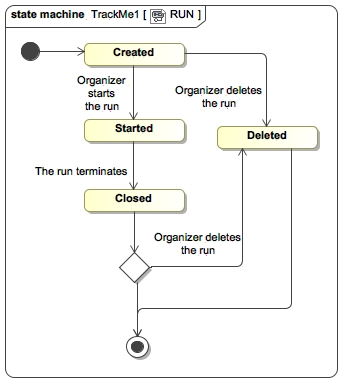
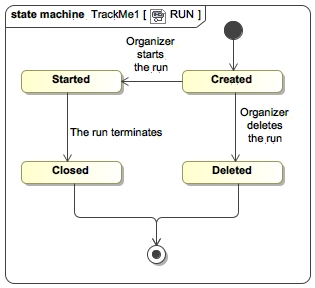
Updates from ShareLaTeX

Changed region(s): [[0.0, 0.0, 1.0, 1.0], [0.3429, 0.6875, 0.3714, 0.7188]]

diff --git a/DD/main.tex b/DD/main.tex
@@ -4,7 +4,7 @@
 \usepackage{graphicx}
 \usepackage{acronym}
 \usepackage{indentfirst}
-\usepackage[htt]{hyphenat}
+\usepackage[none]{hyphenat}
 \usepackage{fancyhdr}
 \usepackage{enumitem}
 \usepackage{listings}
@@ -38,23 +38,23 @@
  
     \subsection{Scope}
     \textit{TrackMe} system has been project in such a way that it is a service available on web and mobile application. The subjects the should use this service can belong to two different categories:
-    \newline
+    
     \begin{itemize}
     
     \item{Individuals}
     
     \item{Third-Party}
-    \newline
+    
     \end{itemize}
     
    
-   \textit{TrackMe} give allows Third-Party to access Individual's health data exploiting the functionalities of \textit{Data4help} section of \textit{TrackMe}. The Third-Parties can make Individual, or group request. the Individuals  can accept or not Third-parties' requests. The application may also allow individual users to connect external  devices such as smart-watches or similar, to perform a more detailed data acquisition and monitoring. 
-   \newline
+   \textit{TrackMe} give allows Third-Party to access Individual's health data exploiting the functionality of \textit{Data4help} section of \textit{TrackMe}. The Third-Parties can make Individual, or group request. the Individuals  can accept or not Third-parties' requests. The application may also allow individual users to connect external  devices such as smart-watches or similar, to perform a more detailed data acquisition and monitoring. 
+   
    
    
    In addition, the third-party may also provide a personalized and non intrusive SOS service for elderly people who requested it.
    The system permits to enable the \textit{Automated-SOS} service that guarantees that the GPS position of an user, who has enabled \textit{Automated SOS}, can be send to the nearest ambulance available, when user's health parameters overcome some critical thresholds. This procedure takes place thanks to an ambulance dispatcher, which is connected to the Third-Party (which has enabled automated-SOS too), that has been selected by that individual to provide this service
-   \newline
+   
    
    
    Moreover,  through  the \textit{Track4Run} service, \textit{TrackMe} allows \textit{Organizers} (that are individuals)  to  \textit{create}  a  new  run:  a  competition  in  which other individuals can either participate as \textit{athletes} or watch as \textit{spectators}.  Additionally, this feature guarantees other services for keeping track of athletes progresses during the run, providing an interactive map of the run, with runners position on it.
@@ -239,13 +239,7 @@ it allows to communicate with the application server and the only logic used is 
 \section{User Interface Design}
 
 %improve the image layout
-In this section will be showed the application mock ups.
-\newline
-The guest who access to the main page can sign-up to the application providing his credentials. Once clicked on the \textit{Sign On} button the guest can decide whether registers as an Individual or as a Third-Party, swiping left and right to choose the wright option.
-\newline
-Once registered, on initial page, an user can sign-in in the application inserting Username and Password in the relative boxes and clicking on the \textit{Sign} In button. 
-\newline  
-\newline  
+The guest who access to the main page can sign-up to the application providing his credentials. Once clicked on the \textit{Sign On} button the guest can decide whether registers as an Individual or as a Third-Party, swiping left and right to choose the wright option. Once registered, on initial page, an user can sign-in in the application inserting Username and Password in the relative boxes and clicking on the \textit{Sign} In button. 
 
 %mock-up figures
 \begin{figure}[!htpb]
@@ -253,13 +247,11 @@ Once registered, on initial page, an user can sign-in in the application inserti
     	\includegraphics[height=50mm]{images/mockups/Login_Registration.png}
     	\includegraphics[height=50mm]{images/mockups/RegistrationForm.png}
     	\includegraphics[height=50mm]{images/mockups/ThirdPartyRegistration.png}
-    	\newline
-    	\newline
+    	
+    	
         \end{figure}
 
-When, inside the application, the user is redirected to the home page, where he can see the last activities, and where he can sign out from \textit{TrackMe}.
-\newline
-Swiping left he can access to the profile page which is different whether he is signed as an Individual or Third-Party. Here they can access to the services provided by \textit{Data4help} and the can enable \textit{Automated-SOS} too. The Individual can swipe again to access the \textit{Track4Run} section.
+When, inside the application, the user is redirected to the home page, where he can see the last activities, and where he can sign out from \textit{TrackMe}. Swiping left he can access to the profile page which is different whether he is signed as an Individual or Third-Party. Here they can access to the services provided by \textit{Data4help} and the can enable \textit{Automated-SOS} too. The Individual can swipe again to access the \textit{Track4Run} section.
 
 \begin{figure}[!htpb]
     	\centering
@@ -268,21 +260,19 @@ Swiping left he can access to the profile page which is different whether he is 
     	\includegraphics[height=50mm]{images/mockups/ThirdPartyProfile.png}
         \end{figure}
 
-\newpage
-
-The Third-party, in the Request page, can swipe between individual and group, and can enable the option to subscribe to new data. 
-\newline
-While, The Individual, can see and resolve incoming request, the accepted and the rejected ones.
-\newline
-The Third- Party, form the initial page, can also reach the view data section. Here he can see and plot the data of the accepted requests. Furthermore, swiping left and right, it can move between individual and group data.
-
-\newpage
+The Third-party, in the Request page, can swipe between individual and group, and can enable the option to subscribe to new data. While, The Individual, can see and resolve incoming request, the accepted and the rejected ones. The Third- Party, form the initial page, can also reach the view data section. Here he can see and plot the data of the accepted requests. Furthermore, swiping left and right, it can move between individual and group data.
+\begin{figure}[!htpb]		
+		
+     	\centering		
+     	\includegraphics[height=50mm]{images/mockups/Requests.png}		
+     	\includegraphics[height=50mm]{images/mockups/GroupRequest.png}		
+     	\includegraphics[height=50mm]{images/mockups/ManageRequests.png}		
+     	\includegraphics[height=50mm]{images/mockups/ViewData.png}		
+     	\includegraphics[height=50mm]{images/mockups/ViewData2.png}		
+         \end{figure}
         
-Once in the \textit{Truck4Run}, the individual can create, watch, enroll, unroll, start or delete a run. 
-\newline
-In the create run page, he can set all the characteristic of the run. Furthermore, he can access to an interactive map to set up the path of the rush.
-\newline
-In the section tho watch a run, a map is showed with all the information about that rush.
+        \newpage
+Once in the \textit{Truck4Run}, the individual can create, watch, enroll, unroll, start or delete a run.  In the create run page, he can set all the characteristic of the run. Furthermore, he can access to an interactive map to set up the path of the rush. In the section tho watch a run, a map is showed with all the information about that rush.
 
         \begin{figure}[!htpb]
     	\centering
@@ -291,7 +281,8 @@ In the section tho watch a run, a map is showed with all the information about t
     	\includegraphics[height=50mm]{images/mockups/ShowMap.png}
     	\includegraphics[height=50mm]{images/mockups/DefineTrack.png}
         \end{figure}
-
+        
+\newpage
 \section{Requirements Traceability}
 
 

diff --git a/RASD/main.tex b/RASD/main.tex
@@ -242,11 +242,9 @@
         \hfill
         
         \centering
-        \includegraphics[width=80mm, keepaspectratio]{images/UML/state_sos.jpg}
-        \hfill
+        \includegraphics[width=70mm, keepaspectratio]{images/UML/state_sos.jpg}
         
-        \centering
-        \includegraphics[width=60mm, keepaspectratio]{images/UML/state_run.jpg}
+        \includegraphics[width=55mm, keepaspectratio]{images/UML/state_run.jpg}
         \caption{State Charts}
     \end{figure}
     
@@ -663,7 +661,7 @@
         \actor{Guest.}
         \pre{The individual has a valid SSN/FC and he has selected the \textit{Individual} option in the Registration page.}
         
-        \bflow{The system asks to provide username, password, SSN/FC (based on region) and user personal information such as name, surname, age, gender, e-mail, nationality and optional notes about his health condition.}
+        \bflow{The system asks to provide username, password, SSN or FC based on region and user personal information such as name, surname, age, gender, e-mail, nationality and optional notes about his health condition.}
               {The individual fills out the requested information and presses the confirm button.}
               {The system registers that user as an Individual and adds it to the  Database.}
         \post{The individual is successfully registered as an Individual.}

diff --git a/RASD/frontpage.tex b/RASD/frontpage.tex
@@ -22,7 +22,7 @@
     \fontsize{22px}{8mm}\selectfont \textsc{\textbf{Requirement Analysis and\\ Specification Document}}
 \end{center}
 \begin{center}
-    \fontsize{14px}{4mm}\selectfont \textsc{{Draft Version 0.5 - 9/11/2018 - Rev 3.0}}
+    \fontsize{14px}{4mm}\selectfont \textsc{{Version 1.0 - 10/11/2018}}
 \end{center}
 \hfill
 \hfill

diff --git a/DD/frontpage.tex b/DD/frontpage.tex
@@ -22,7 +22,7 @@
     \fontsize{22px}{8mm}\selectfont \textsc{\textbf{Design Document}}
 \end{center}
 \begin{center}
-    \fontsize{14px}{4mm}\selectfont \textsc{{Draft Version 0.1 - 05/11/2018}}
+    \fontsize{14px}{4mm}\selectfont \textsc{{Draft Version 0.2 - 09/11/2018}}
 \end{center}
 \hfill
 \hfill

diff --git a/README.md b/README.md
@@ -1,21 +1,39 @@
 # Software Engineering II Project (A.Y. 2018/2019)
+This repository is owned by Davide Rutigliano, Claudio Ferrante and Davide Matta and contains all the documents needed to the developer of the proposed system.
 
-# Overview
-This repository is owned by Davide Rutigliano, Claudio Ferrante and Davide Matta and contains all the documents needed to
-the developer of the proposed system.
+## Documents
+* First we propose a Requirement Analysis and Specification Document in order to describe and define both the problem and the model and also to point out requirements, dependencies and constraints of the proposed solution.
 
-In order to write such documents we decided to use Latex editor, so we used
-ShareLatex via Overleaf. This choice allowed us also to link Latex project with this github repository.
+* Second folder is related to the Design Document in which we will describe all the design specifications and constraints such as architectural details, languages needed to implement the software previously analyzed and an integration and test plan.
 
-# Documents Preview via Overleaf
-In this readme we provided to the readers read-only links to our overleaf project in order to have also a pdf version
-preview of all the documents.
+* Then we moved on the *implementation & test* part in which we used these two documents and UML diagrams to build our software application documented below.
 
-* [RASD](https://www.overleaf.com/read/vqnvgypvstfb)
- 
- 
- # Project layout
+### Preview via Overleaf
+In this readme we provided to readers also a [read-only link](https://www.overleaf.com/read/cvwthghwqznk) to our overleaf project in order to have a pre-compiled version preview of all the documents we propose. In order to have the pdf of the desired document the reader should navigate to the folder, open the main file and recompile the document (e.g. to compile the RASD, the reader should go on "RASD/main.tex" and click "Recompile").
+
+### Delivery
+In the folders named after the documents we included our code, in Delivery Folder instead there are pdf version of latex documents which in order to be recognized will be named after the code folder too. For example "Requirement Analysis Document" is in RASD folder and the delivered file is called "RASD.pdf".
+
+## Tools
+### Latex
+In order to write such documents adopted Latex editor, so we used
+ShareLatex via Overleaf. This choice allowed us to work to the document quickly and from remote and also to link the Latex project with this github repository.
+
+### UML
+We used a professional UML diagrams software [magicDraw](https://www.magicdraw.com/main.php?ts=download_demo&cmd_go_to_login=1&menu=download_demo&back_cmd=cmd_show).
+
+## Project layout
 ```
-├── RASD                : Requirement Analysis and Specification Document Latex project
-├── DD                  : Design Document Latex project
-└── DeliveryFolder      : pdf version of delivered documents
+├── DD                  : *Design Document* Latex project
+├── DeliveryFolder      : pdf version of delivered documents
+├── Images		        : common "Logo" images
+├── RASD                : *Requirement Analysis and Specification Document* Latex project
+└── README.md           : this file
+```
+
+# Contributors
+:octocat: [Davide Rutigliano](https://github.com/DavideRutigliano)
+
+:octocat: [Davide Matta](https://github.com/DadeKuma)
+
+:octocat: [Claudio Ferrante](https://github.com/ClaudioFerrante95)
